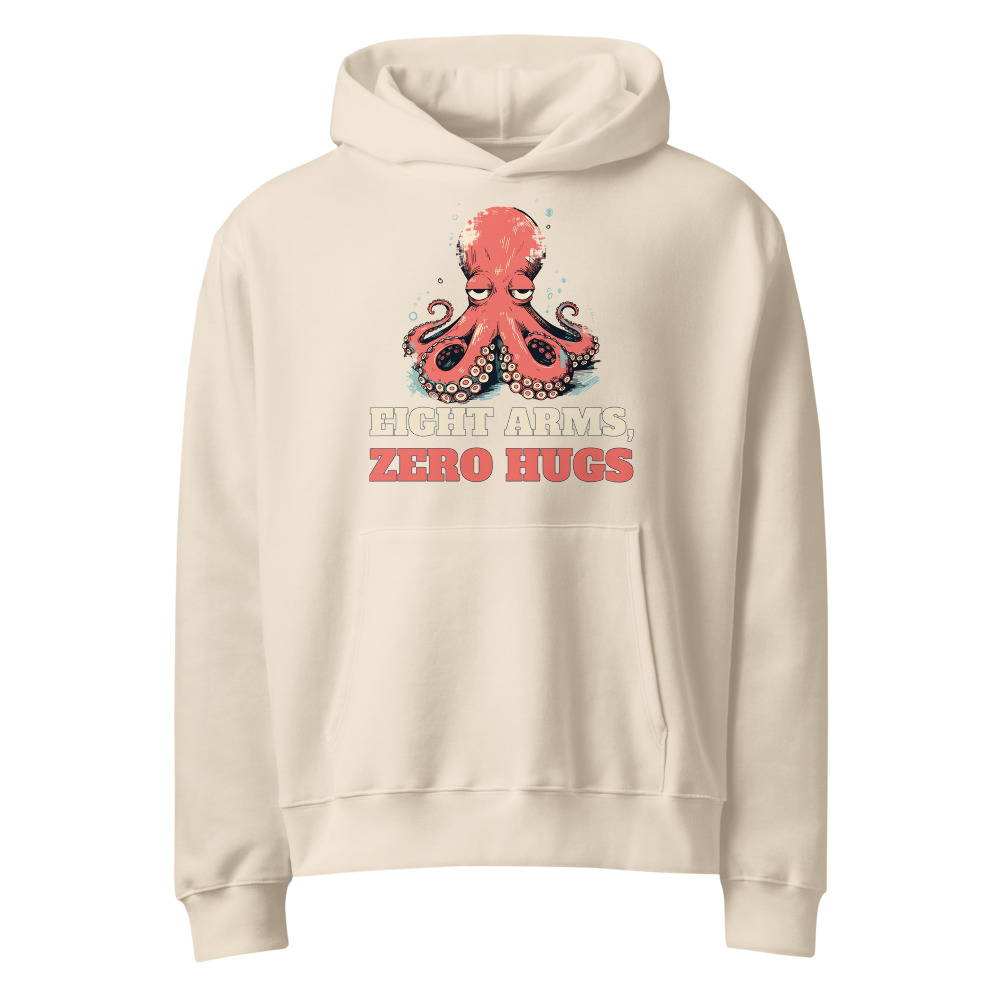
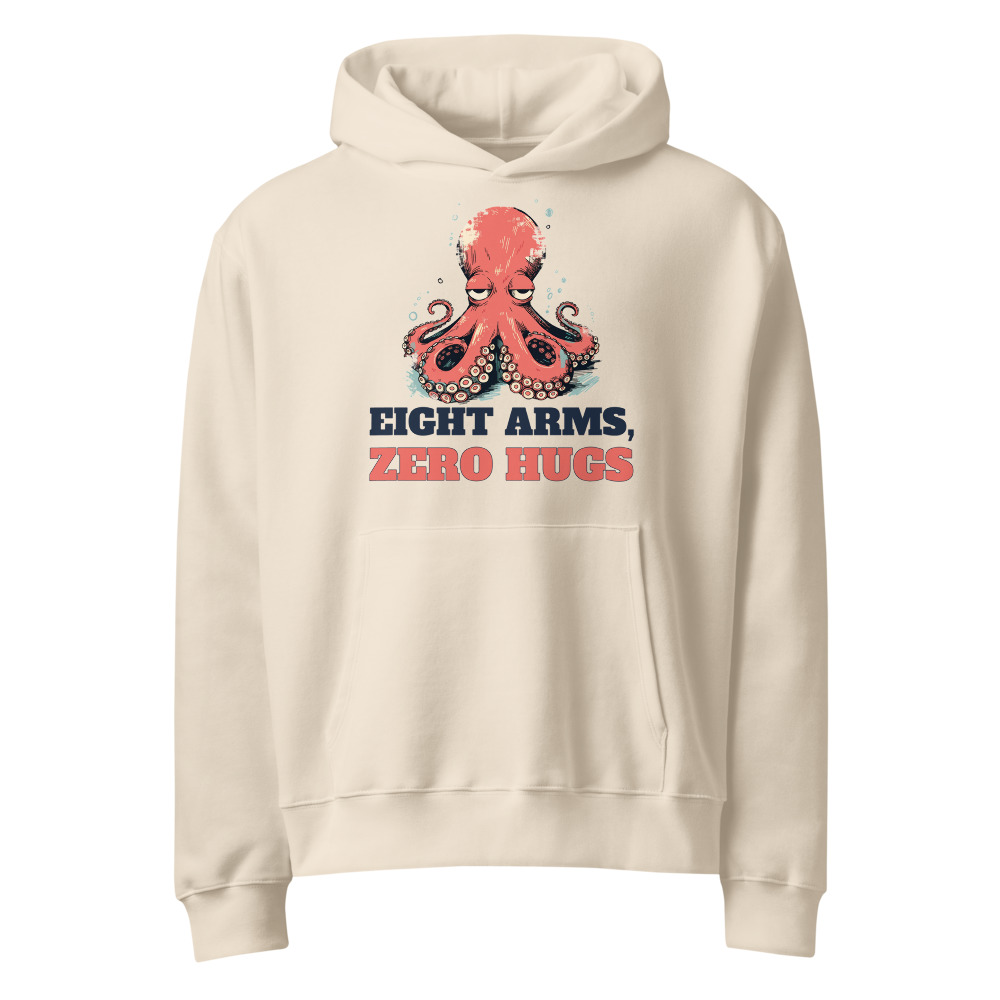
[C] review 441 Women's Octopus Eight Arms Zero Hugs hoodie (Dust navy file)
Claude-Session: https://claude.ai/code/session_01TEP16Kx9dgDip5R8gBRerG

Changed region(s): [[0.372, 0.403, 0.651, 0.496]]

diff --git a/designs/c441/build.py b/designs/c441/build.py
@@ -5,20 +5,21 @@ import sys
 from pathlib import Path
 from PIL import Image, ImageDraw, ImageFont
 ROOT = Path(__file__).resolve().parents[2]; F = ROOT / 'designs' / 'fonts'
-src, out = sys.argv[1:3]
+src, out = sys.argv[1:3]; LIGHT = len(sys.argv) > 3 and sys.argv[3] == 'light'
 a = Image.open(src).convert('RGBA')
 art = a.crop((0, 0, a.width, 2280)); art = art.crop(art.getbbox())
 W = art.width
 # print must fit the 1650x1650 front area at FW 1500 (aspect <= 1.09): art at 76% of the lockup width
 art = art.resize((int(W * 0.76), int(art.height * 0.76)), Image.LANCZOS)
-def line(text, fill, width, size=1200):
+def line(text, fill, width, size=1200, key=True):
     f = ImageFont.truetype(str(F / 'AlfaSlabOne-Regular.ttf'), size)
-    bb = f.getbbox(text, stroke_width=14)
+    sw = 14 if key else 0
+    bb = f.getbbox(text, stroke_width=sw)
     img = Image.new('RGBA', (bb[2] + 80, bb[3] + 80), (0, 0, 0, 0))
-    ImageDraw.Draw(img).text((20, 20), text, font=f, fill=fill, stroke_width=14, stroke_fill='#1c2a40')
+    ImageDraw.Draw(img).text((20, 20), text, font=f, fill=fill, stroke_width=sw, stroke_fill='#1c2a40')
     img = img.crop(img.getbbox())
     return img.resize((width, int(img.height * width / img.width)), Image.LANCZOS)
-h = line('EIGHT ARMS,', '#f3e6cb', W); s = line('ZERO HUGS', '#ee6c63', W)
+h = line('EIGHT ARMS,', '#1c2a40', W, key=False) if LIGHT else line('EIGHT ARMS,', '#f3e6cb', W); s = line('ZERO HUGS', '#ee6c63', W)
 g1, g2 = 20, 50
 c = Image.new('RGBA', (W, art.height + g1 + h.height + g2 + s.height), (0, 0, 0, 0))
 c.alpha_composite(art, ((W - art.width) // 2, 0)); c.alpha_composite(h, (0, art.height + g1)); c.alpha_composite(s, (0, art.height + g1 + h.height + g2))

diff --git a/docs/intake-log.md b/docs/intake-log.md
@@ -1,4 +1,4 @@
-RUNNING lane C since 2026-10-19 16:54 UTC
+2026-10-19 16:57 UTC — [C] Builder run: redid #441 Eight Arms oversized hoodie again (director R5.3.8: separate navy-headline Dust file 1089678989, Dust 6/6 relinked, Dust front replaced in place, Navy unchanged). REVIEW. fal $0. 1 redo per run cap reached. Lock released.
 2026-10-19 16:47 UTC — [H] Helper run: Telegram inbox empty (getUpdates returned 0 updates; nothing to consume, no pause or resume). Audit (598 live products): 0 errors, 30 warnings left alone (polish). Price errors 0, so the announcement bar already carries the holiday line. Category check: 0 products without a category. Site check: 3 newest LIVE pages (womens-cat-making-biscuits-hoodie, unisex-national-park-switchbacks-build-character-heavyweight-hoodie, unisex-christmas-card-photo-survivor-graphic-tee) return 200. Stuck work: none (one BUILDING item, #557 from 16:46; all lane locks under 2 hours). Daily summary not due (sent 16:05). Installed node_modules with npm ci so the audit could run. Lock released.
 2026-10-19 17:12 UTC — [E] Builder run: redid #557 Cat Dad tee (type only: Bowlby One cream CAN'T. / mustard CAT'S ON ME. lockup at full art width, same cat art, FW 1650, 28/28 resynced, 4 fronts replaced in place, plain product shot). REVIEW. fal $0. 1 redo per run cap reached. Lock released.
 RUNNING helper since 2026-10-19 16:45 UTC
@@ -9,7 +9,6 @@ RUNNING director since 2026-10-19 16:16 UTC
 2026-10-19 16:24 UTC — [E] Builder run: redid #490 Plans Canceled. Mood Improved. hoodie (type only: Bevan orange/cream lockup at about full art width, same cat art, FW 1500, 12/12 synced, Sand+Navy fronts replaced in place, plain product shot). REVIEW. fal $0.
 2026-10-19 16:47 UTC — [D] Director run (RESUMED). Inbox: nothing new needing action. Reviewed the 8 new REVIEW sheets (all quality-reset type redos). LIVE 6 (cap): #394 #239 #282 #244 #403 (redos, already ACTIVE) and #599 (approved last run; set ACTIVE + Online Store, Headless, Google & YouTube); audit --handle PASS 0 warn each; side-by-side verdicts vs 493/479/483 in each pipeline file. Shopify fixes: #394 Story said "groovy 1970s letters" (now heavy capitals) and carried the cat-hoodies tag on a crewneck (removed, R7.5); #244 SEO title and meta still named the old NANA'S COOKIES / RECIPE NOT AVAILABLE print (rewritten). REDO: #370 Mountains Called (both lines still thin bars; restack + dark Sand file), #441 Eight Arms (cream headline vanishes on Dust, R5.3.8; 6th light-blank hit, so R5.3.8 now lists which blanks count as light). Port shortcuts: #567 oversized hoodie ports #282's new print; #240 crewneck set to REDO to port #239's new print so the pair matches. Briefs: none; lane A stays at 9 READY (RankHero returned no volume for any unclaimed Christmas garment phrase measured this run; R2.1 no measurement, no build; lane A has 42 REDOs ahead of READY anyway). B 12 / C 12. Still waiting for the cap: the ~37 approved add-ons and A-grade items at REVIEW (next: #582, #633, #634, #651, #653, #654). Digest not due (midday sent 12:20). Lock released.
 2026-10-19 16:13 UTC — [A] Builder run: redid #244 Nana's Cookies crewneck (ported approved #245 THE RECIPE / DIES WITH ME. print, FW 1650, 30/30 relinked, 5 fronts replaced, plain product shot). REVIEW. fal $0. 1 redo per run cap reached. Lock released.
-RUNNING lane C since 2026-10-19 15:56 UTC
 2026-10-19 16:40 UTC — [B] Builder run: redid #403 I Have Plans hoodie (type only: BowlbyOne coral headline at full art width, same crab art, FW 1500, 12/12 synced, Sand+Navy mockups replaced in place, plain product shot). REVIEW. fal $0. 1 redo per run cap reached. Lock released.
 2026-10-19 16:00 UTC — [E] Builder run: redid #282 Bulking Season tee (type only: Anton stacked red/green lockup at about 92% art width, same Santa art, FW 1400, 42/42 synced, 6 front mockups replaced in place, plain product shot). REVIEW. fal $0. 1 redo per run cap reached. Lock released.
 2026-10-19 16:02 UTC — [C] Builder run: redid #441 Eight Arms, Zero Hugs oversized hoodie (type only: heavy AlfaSlabOne cream/coral lockup, same art, FW 1500, 12/12 synced, Dust+Navy mockups replaced in place, plain product shot). REVIEW. fal $0. 1 redo per run cap reached. Lock released.

diff --git a/docs/pipeline/441-oversized-hoodie-octopus-eight-arms-zero-hugs.md b/docs/pipeline/441-oversized-hoodie-octopus-eight-arms-zero-hugs.md
@@ -1,4 +1,4 @@
-status: BUILDING [C] 2026-10-19 16:54
+status: REVIEW
 lane: C
 type: new
 id: 441
@@ -32,3 +32,4 @@ kd: 30
 - 2026-10-18 17:22 UTC director: QUALITY RESET grade B (type only), REDO. The product stays ACTIVE (same handle, URL, title keyword). Keep the line "EIGHT ARMS, / ZERO HUGS" and the art. 1. Type: Both lines medium script with outline; no heavy headline weight. 2. Quality reset type bar (docs/backlog/quality-reset.md, 'The new bar'): headline at least 90% of the art width, heavy, colors pulled from the art; second line at least 45% of the headline's height, never a thin script on a dark or mid garment; use the lettering as a shape (arch, stacked lockup, words breaking into the art), not a plain bar above and a script line below; no font used on more than 1 in 6 of the last 30 designs. 3. New print file means a new cover per R6.10 and a fresh review sheet (R7.7). While quality-reset.md says PAUSED, only lane A builds, and only the samples step 2 names.
 - 2026-10-19 16:02 UTC builder [C]: REDO type-only done. Same art cropped from the old print (art scaled to 76% so the stack fits the 1650 front area), new print designs/c441/build.py: EIGHT ARMS, and ZERO HUGS in AlfaSlabOne at full lockup width (cream #f3e6cb / coral #ee6c63 from the art, navy keyline), Printful file 1089639805, FW 1500 TOP 20, resynced 12/12. Dust and Navy front mockups replaced in place (back unchanged). Cover: plain product shot (handle in retired-covers.json). Copy line 'rounded script capitals' fixed to 'heavy slab capitals, cream over coral'. Phone-size read: both lines readable on Navy. Light file n/a (cream fill is on Navy/Dust-dark ink check: Dust is a mid tone, keyline navy keeps it legible). fal $0. design-crops not rerun. Audit PASS 0 warn. Sheet docs/review/441.jpg. Set REVIEW.
 - 2026-10-19 16:35 UTC director: REDO from docs/review/441.jpg. 1. R5.3.8 cream headlines on light blanks: EIGHT ARMS, is a cream fill with a thin navy keyline and nearly disappears on Dust (see the two Dust panels on the sheet: only ZERO HUGS reads). Dust is a light blank for this ink. Make a Dust file with EIGHT ARMS, in solid navy (open counters, no dark keyline) and ZERO HUGS in the coral, link the Dust variants to it and log the count (R7.7); Navy keeps the cream file. 2. Read every word on the Dust mockup at phone size before REVIEW and remake the sheet with both Dust and Navy fronts.
+- 2026-10-19 16:57 UTC builder [C]: REDO per director 16:35. Dust file: EIGHT ARMS, in solid navy #1c2a40 (no keyline, open counters), ZERO HUGS coral with navy keyline, same art/size (designs/c441/build.py light), Printful file 1089678989 (light file: Dust on 1089678989, headline fill navy; Navy keeps cream file 1089639805). FW 1500 TOP 20. Relinked Dust 6/6 to 1089678989 and Navy 6/6 on 1089639805 (12/12 synced). New Dust front attached to the 6 Dust variants, old Dust front deleted. Phone-size (400 px) read on Dust: both lines readable. Description ink sentence updated (coral under cream on Navy, under navy on Dust). fal $0. Audit PASS 0 warn. Sheet docs/review/441.jpg (Dust + Navy fronts). Set REVIEW.
